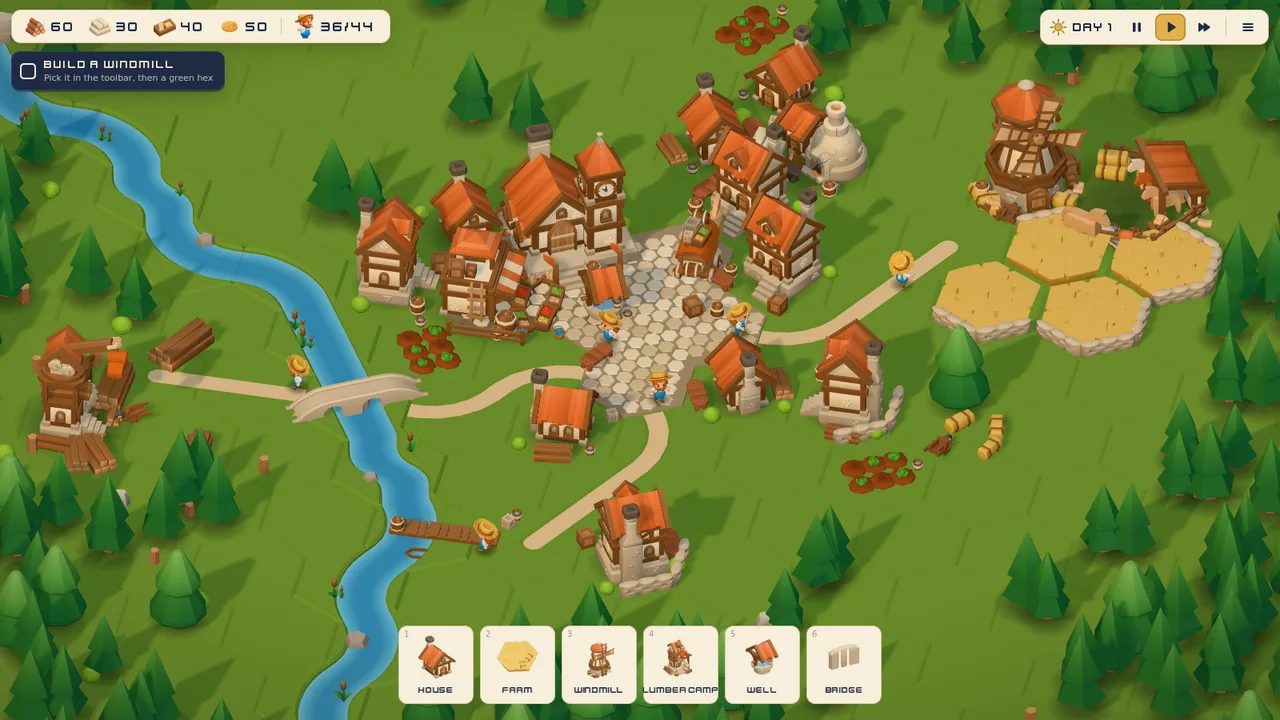
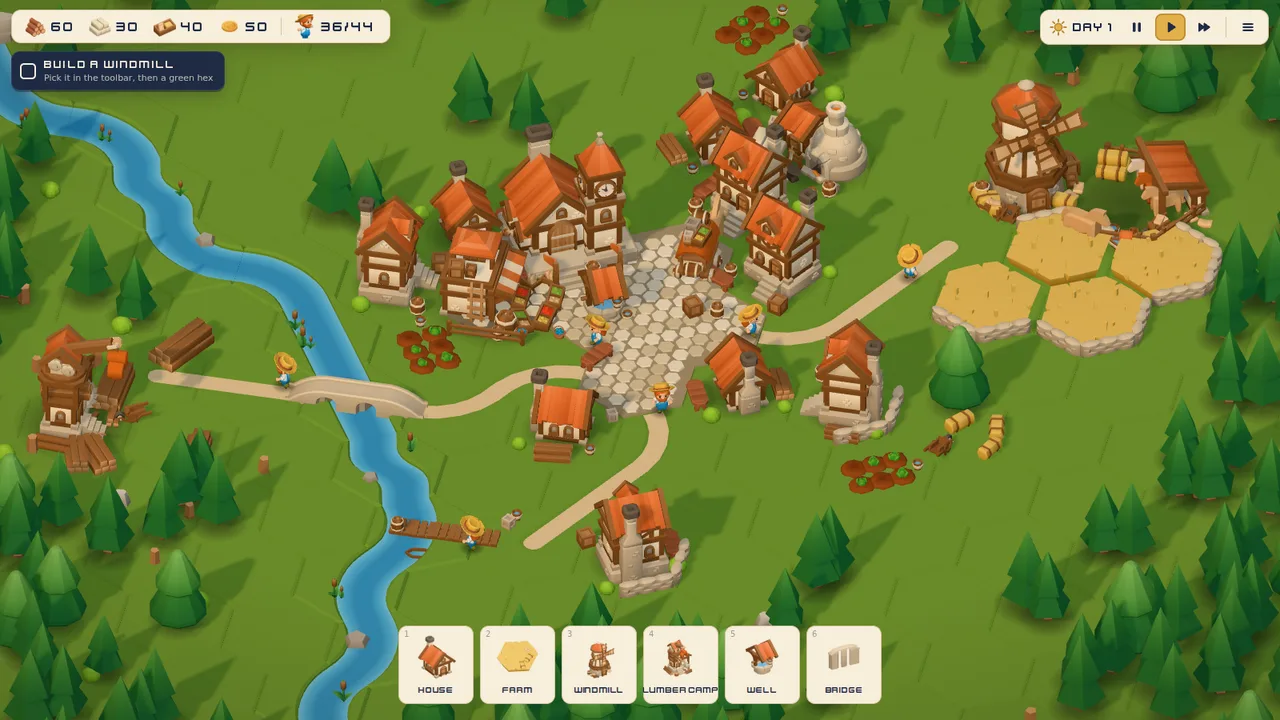
Hearthvale: line the bridge up with the roads
The bridge model is authored in the hex pack's tile frame, so it now turns
like the river and road tiles instead of like a building. Applies to the
village's bridge, bridges the player builds, and the placement preview.
Also adds the missing "Bridge built" label, a new screenshot, and a
check for joins (bridges, roads, doors, walls) in the 3D look card.

diff --git a/games/showcase/medieval-village/src/scenes/game.js b/games/showcase/medieval-village/src/scenes/game.js
@@ -17,14 +17,14 @@ NK.scene("Game", class extends NK3D.Scene {
     this.speed = run.speed;
     const self = this;
     // ---- economy
-    const NAMES = { townhall: "Town Hall", house: "Cottage", market: "Market", windmill: "Windmill", stables: "Granary", lumber: "Lumber Camp", blacksmith: "Smithy", well: "Well", farm: "Farm", docks: "Dock" };
+    const NAMES = { townhall: "Town Hall", house: "Cottage", market: "Market", windmill: "Windmill", stables: "Granary", lumber: "Lumber Camp", blacksmith: "Smithy", well: "Well", farm: "Farm", docks: "Dock", bridge: "Bridge" };
     const econ = {
       run: () => run,
       spend(cost) { for (const k of Object.keys(cost)) run[k] -= cost[k]; self.refresh(); },
       built(type, cell, bld) {
         run.built[type] = (run.built[type] || 0) + 1;
         if (type === "farm") { const W = V.HX; for (let j = 0; j < 6; j++) { const nb = V.cell(...W.neighbour(cell.c, cell.r, j)); if (nb && nb.building && nb.building.type === "windmill") run.farmByMill = true; } }
-        self.float(NAMES[type] + " built", cell.x, cell.z, 1.4);
+        self.float((NAMES[type] || "Building") + " built", cell.x, cell.z, 1.4);
         self.stats();
         self.refresh();
       },

diff --git a/games/showcase/medieval-village/src/entities/placement.js b/games/showcase/medieval-village/src/entities/placement.js
@@ -142,7 +142,7 @@
       if (st.ghost) {
         st.ghost.visible = true;
         st.ghost.position.set(cell.x, cell.kind === "river" ? 0 : 0, cell.z);
-        st.ghost.rotation.y = st.tool === "bridge" ? HX.faceRot(r.axis >= 0 ? r.axis : (cell.flow[0] || 0) + 1) : st.tool === "farm" ? Math.PI / 6 : HX.faceRot(r.face === undefined ? 1 : r.face);
+        st.ghost.rotation.y = st.tool === "bridge" ? (r.axis >= 0 ? HX.bridgeRot(r.axis) : cell.building && cell.building.group ? cell.building.group.rotation.y : HX.bridgeRot((cell.flow[0] || 0) + 1)) : st.tool === "farm" ? Math.PI / 6 : HX.faceRot(r.face === undefined ? 1 : r.face);
         st.ghost.traverse((n) => { if (n.isMesh) n.material = r.ok ? ghostOk : ghostBad; });
       }
       const touch = NK.input.lastDevice === "touch";
@@ -159,7 +159,7 @@
       scene.add(holder);
       let bld;
       if (type === "bridge") {
-        bld = BLD.make(scene, "bridge", 0, 0, HX.faceRot(r.axis), {});
+        bld = BLD.make(scene, "bridge", 0, 0, HX.bridgeRot(r.axis), {});
         cell.kind = "bridge";
       } else if (type === "farm") {
         bld = BLD.make(scene, "farm", 0, 0, Math.PI / 6, {});

diff --git a/games/showcase/medieval-village/src/hex.js b/games/showcase/medieval-village/src/hex.js
@@ -67,5 +67,8 @@
   }
   /** Rotation that turns a model's +Z front to face world direction j. */
   function faceRot(j) { const a = (30 + 60 * j) * Math.PI / 180; return Math.atan2(Math.cos(a), Math.sin(a)); }
-  NK.def("hex", { SQ3, DIRS, key, world, cellAt, neighbour, dirTo, distance, line, path, autotile, faceRot, ROAD, RIVER, R: 2 / SQ3 });
+  // The bridge model is authored in the pack's pointy-top tile frame (like the river and road tiles), so it turns by
+  // odd multiples of 30° like them; faceRot's frame would leave its deck 30° off the roads on either bank.
+  function bridgeRot(axis) { return faceRot(axis) - Math.PI / 6; }
+  NK.def("hex", { SQ3, DIRS, key, world, cellAt, neighbour, dirTo, distance, line, path, autotile, faceRot, bridgeRot, ROAD, RIVER, R: 2 / SQ3 });
 })();

diff --git a/games/showcase/medieval-village/src/entities/village.js b/games/showcase/medieval-village/src/entities/village.js
@@ -276,7 +276,7 @@
     }
     for (const br of L.bridges) {
       const cl = cellOf(br.at[0], br.at[1]);
-      const bld = BLD.make(scene, "bridge", cl.x, cl.z, HX.faceRot(br.axis), {});
+      const bld = BLD.make(scene, "bridge", cl.x, cl.z, HX.bridgeRot(br.axis), {});
       root.add(bld.group); bld.cell = cl; cl.building = bld; V.buildings.push(bld);
     }
     // jetty: a row of KayKit pallets from the bank out over the water (the pack's own dock is a raised wharf

diff --git a/games/design/3D-LOOK.md b/games/design/3D-LOOK.md
@@ -42,3 +42,4 @@
 
 ## Review
 - Screenshot at 1600×900 and 844×390 with real input; also zoom in on close-ups for floating, clipping and scale errors. Name the 3 most visible problems, fix, shoot again.
+- Joins: zoom in on every piece that connects two things (bridge to the road on each bank, road and river tiles to each other, doors to paths, walls at corners, cables to sockets) and check that it meets both ends square-on. Models from tile packs are authored in the tile frame (hex packs: pointy-top, odd multiples of 30°), so rotate them like the tiles, not like buildings; a 30° error reads as broken at once. Check it also for pieces the player places, not only the starting layout.
